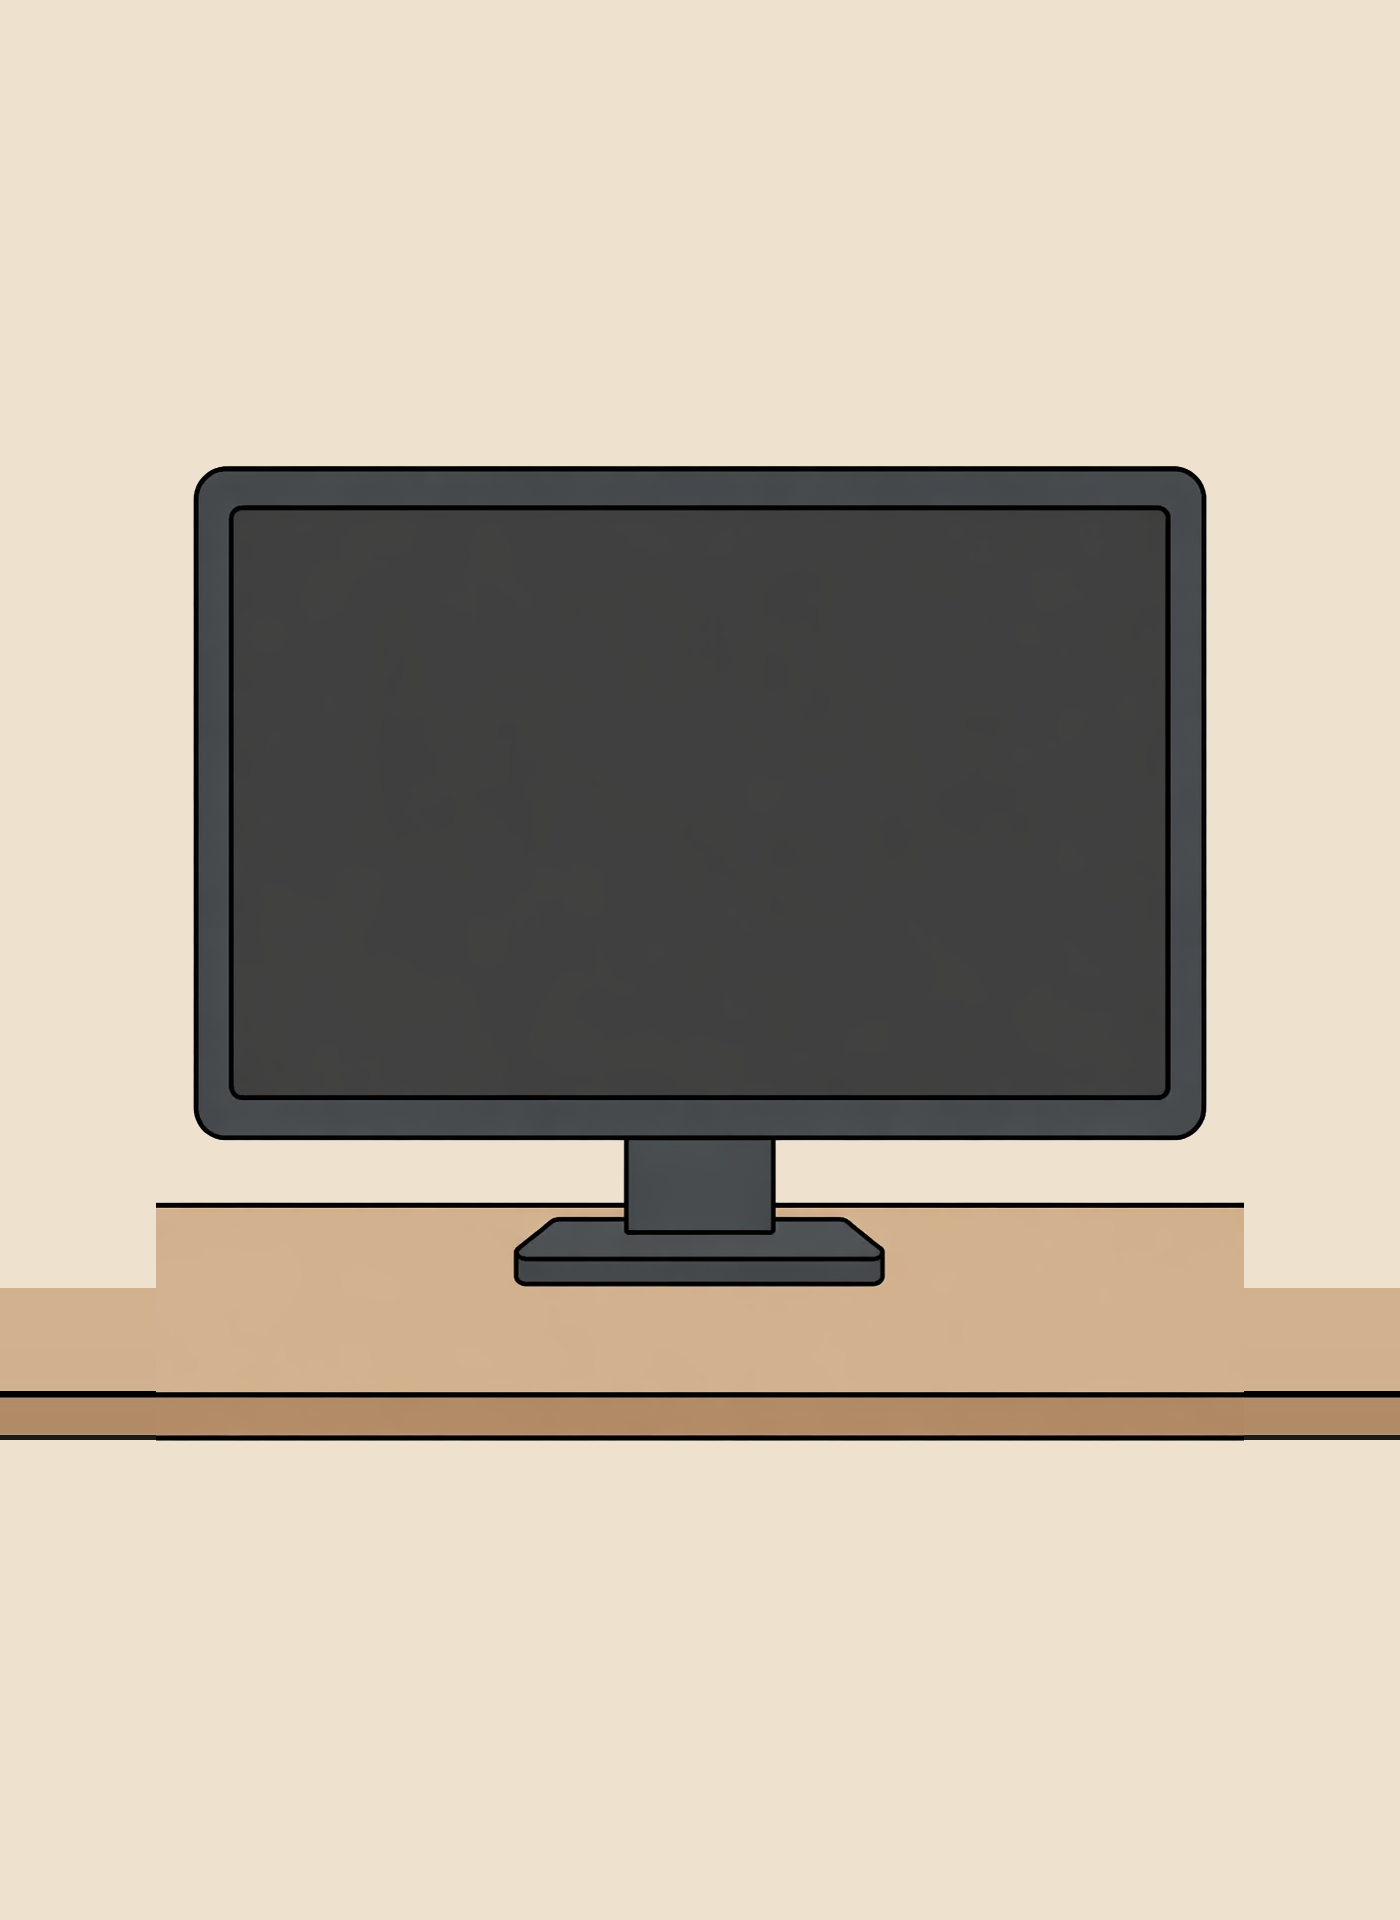
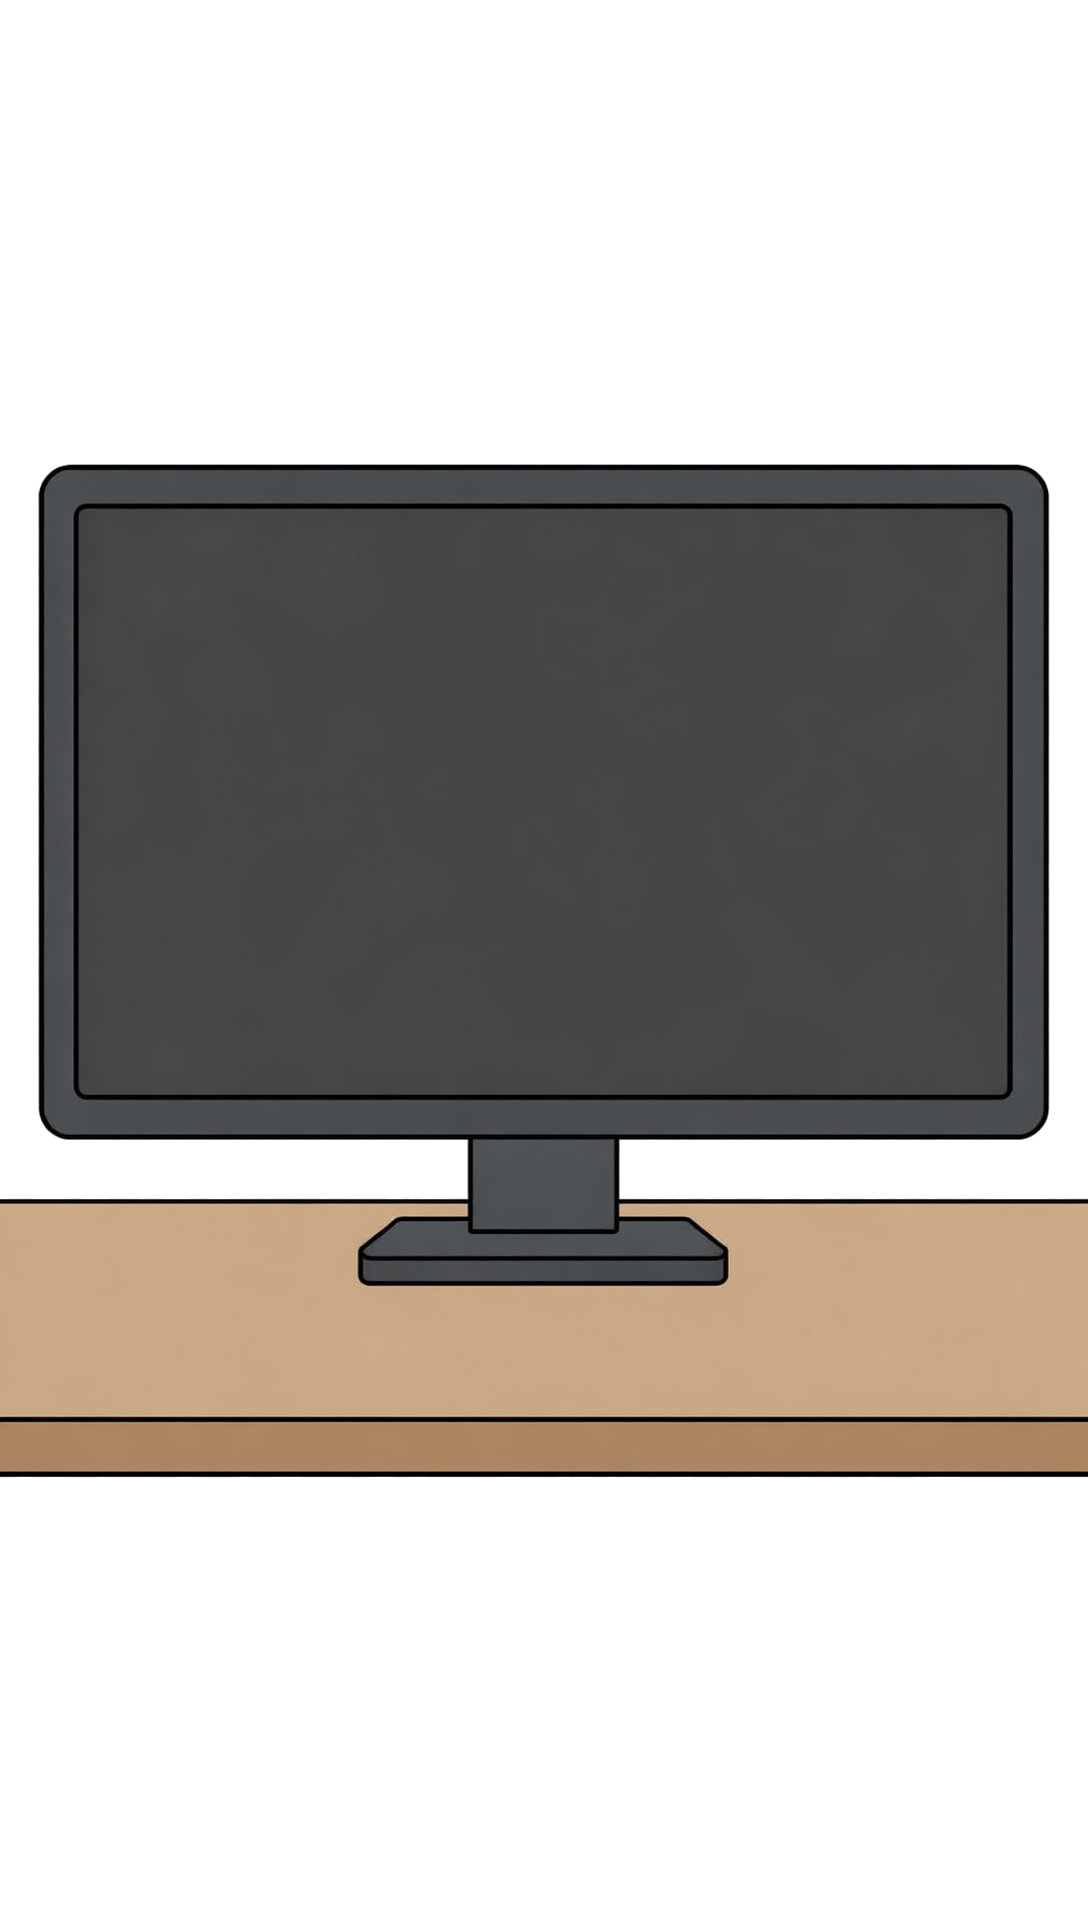
fix: 删除显示器上方多余黑框（drawMonitorFrame）

diff --git a/assets/scripts/cocos/GameRunner.ts b/assets/scripts/cocos/GameRunner.ts
@@ -69,7 +69,6 @@ export class GameRunner extends Component {
   /** 显示器外的顶部/底部 HUD。保持显示器背景与内屏节点不被重绘。 */
   private subtitleNode: Node | null = null;
   private lowerHudNode: Node | null = null;
-  private monitorMetaNode: Node | null = null;
 
   private session!: Session;
   private game!: Game;
@@ -648,7 +647,6 @@ export class GameRunner extends Component {
     if (this.charNode) this.charNode.active = v;
     if (this.subtitleNode) this.subtitleNode.active = v;
     if (this.lowerHudNode) this.lowerHudNode.active = v;
-    if (this.monitorMetaNode) this.monitorMetaNode.active = v;
     if (this.tutorialRoot) this.tutorialRoot.active = v && this.shouldShowTutorial();
   }
 
@@ -1977,7 +1975,6 @@ export class GameRunner extends Component {
       this.levelLabel.fontSize = this.compactHeader ? 20 : 30;
       this.levelLabel.lineHeight = (this.compactHeader ? 20 : 30) + 8;
     }
-    this.drawMonitorFrame(screenTopY, screenBottomY, screenWidthPx, visSize.width);
     // 认可度/分区信息已收敛到下方仪表盘面板；隐藏旧版浮动 Label
     if (this.approvalLabel) this.approvalLabel.node.active = false;
     if (this.zoneLabel) this.zoneLabel.node.active = false;
@@ -2038,51 +2035,6 @@ export class GameRunner extends Component {
     this.layoutLowerHud(visSize.width, visSize.height);
     this.layoutTutorialHint();
   }
-
-  /** 显示器外壳：在屏幕区域外绘一圈深色边框 + 顶部「AI 任务监视器」标签。 */
-  private drawMonitorFrame(screenTopY: number, screenBottomY: number, screenWidth: number, viewWidth: number): void {
-    const screenH = screenTopY - screenBottomY;
-    if (!this.monitorMetaNode) {
-      const node = new Node('MonitorFrame');
-      node.layer = 1 << 25;
-      node.parent = this.node;
-      node.addComponent(UITransform);
-      node.addComponent(Graphics);
-      this.monitorMetaNode = node;
-    }
-    const bezelPad = Math.max(12, viewWidth * 0.018);
-    const frameW = screenWidth + bezelPad * 2;
-    const frameH = screenH + bezelPad * 2;
-    const frameY = (screenTopY + screenBottomY) / 2;
-    const ut = this.monitorMetaNode.getComponent(UITransform)!;
-    ut.setContentSize(frameW + 20, frameH + 60);
-    this.monitorMetaNode.setPosition(0, frameY, 0);
-    const g = this.monitorMetaNode.getComponent(Graphics)!;
-    g.clear();
-    // 只画边框，不填充内部——否则盖住传送带卡片
-    g.strokeColor = new Color(28, 26, 24, 255);
-    g.lineWidth = 4;
-    g.roundRect(-frameW / 2, -frameH / 2, frameW, frameH, 16);
-    g.stroke();
-    // 顶部绿色电源指示灯
-    g.fillColor = new Color(60, 220, 60, 220);
-    g.circle(frameW / 2 - 14, frameH / 2 + 18, 5);
-    g.fill();
-    // 顶部标签
-    if (!this.monitorMetaNode.getComponent(Label)) {
-      this.monitorMetaNode.addComponent(Label);
-    }
-    const label = this.monitorMetaNode.getComponent(Label)!;
-    label.string = 'AI 任务监视器';
-    label.fontSize = Math.min(16, Math.max(12, viewWidth * 0.033));
-    label.lineHeight = label.fontSize + 4;
-    label.color = new Color(190, 188, 178, 230);
-    label.horizontalAlign = 1;
-    label.verticalAlign = 1;
-    label.isBold = true;
-    this.monitorMetaNode.active = this.uiState === 'playing';
-  }
-
   /** 副标题固定在主标题与显示器之间，不进入显示器内屏。 */
   private layoutSubtitle(viewWidth: number, y: number): void {
     if (!this.subtitleNode) {